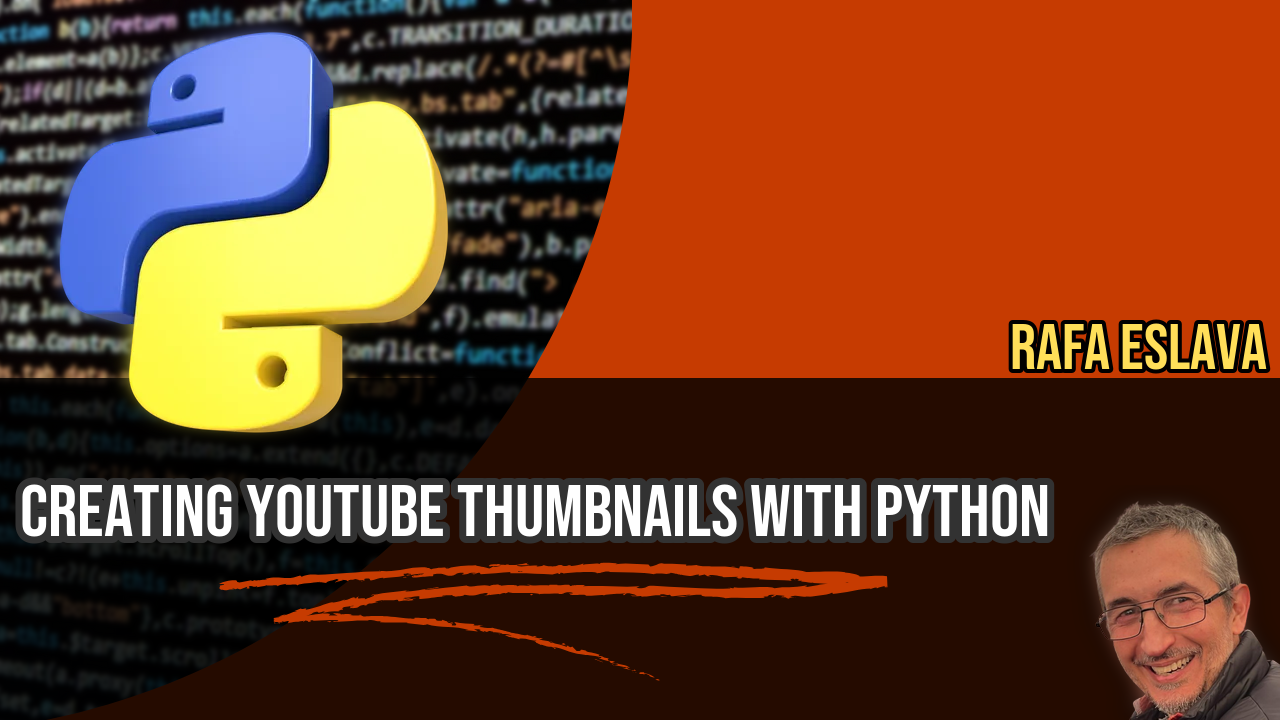
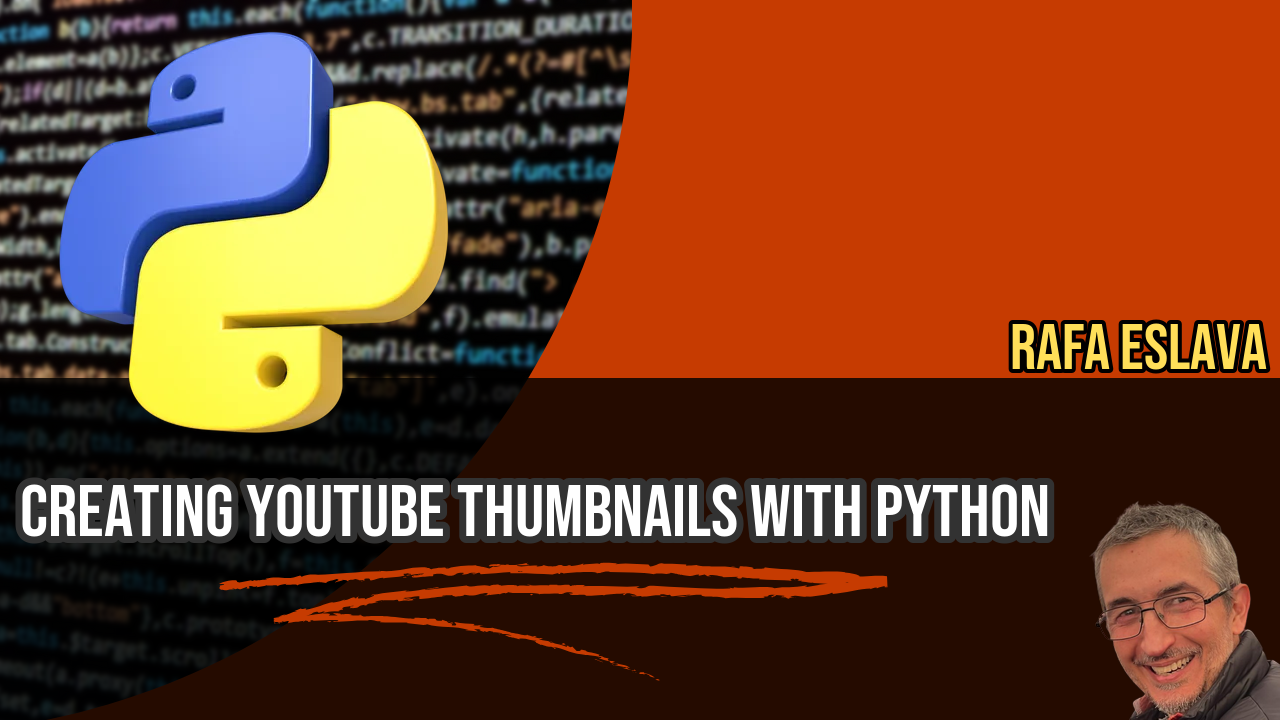
add glow effect

diff --git a/main.py b/main.py
@@ -19,22 +19,23 @@ def create_glow(image: Image, glow_amount: int = 12) -> Image:
     glow = bg.filter(ImageFilter.GaussianBlur(glow_amount))
     return glow
 
-def add_image(base_image: Image, image: Image, size: tuple[int, int], loc: tuple[int, int], rotation: int, glow: bool = False):
+def add_image(base_image: Image, image: Image, size: tuple[int, int], loc: tuple[int, int], rotation: int, glow: bool = False, glow_amount: int = 12):
     """
     size: (width, height)
     loc: (x, y)
     rotation: angle in degrees
     glow: whether to add glow effect
+    glow_amount: intensity of the glow (blur radius)
     """
     image = image.resize(size)
     image = image.rotate(rotation, expand=True)
-    
+
     if glow:
-        glow_image = create_glow(image)
+        glow_image = create_glow(image, glow_amount)
         # Adjust location to account for glow margin
-        glow_loc = (loc[0] - 15, loc[1] - 15)
+        glow_loc = (loc[0] - glow_amount, loc[1] - glow_amount)
         base_image.paste(glow_image, glow_loc, glow_image)
-    
+
     base_image.paste(image, loc, image)
 
 def make_thumbnail(texts: dict[str, tuple[int, tuple[int, int], tuple[int, int, int], tuple[int, int, int], int]], images: dict[str, tuple[int, int]]):
@@ -67,14 +68,14 @@ def main() -> None:
         "Creating youtube thumbnails with Python": (73, (20, 470), (255, 255, 255), (50, 50, 50), 7),
         "Rafa Eslava": (65, (1010, 310), (255, 223, 89), (0, 0, 0), 4)}  
     images = {
-        "python.webp": ((30, 10), True),  # Added glow parameter
-        "rafa.png": ((1280-220, 720-220), True)}  # No glow
+        "python.webp": ((30, 10), True), 
+        "rafa.png": ((1280-220, 720-220), True)}  
     
     base_image = Image.open("background.png")
     for img_path, (loc, has_glow) in images.items():
         image = Image.open(img_path)
         add_image(base_image, image, size=image.size, loc=loc, rotation=0, glow=has_glow)
-    
+        
     # Add text
     draw = ImageDraw.Draw(base_image)
     for text, (font_size, pos, font_color, stroke_color, stroke_width) in texts.items():
